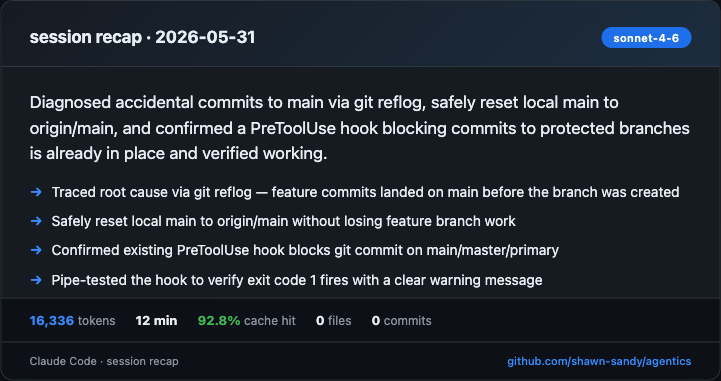
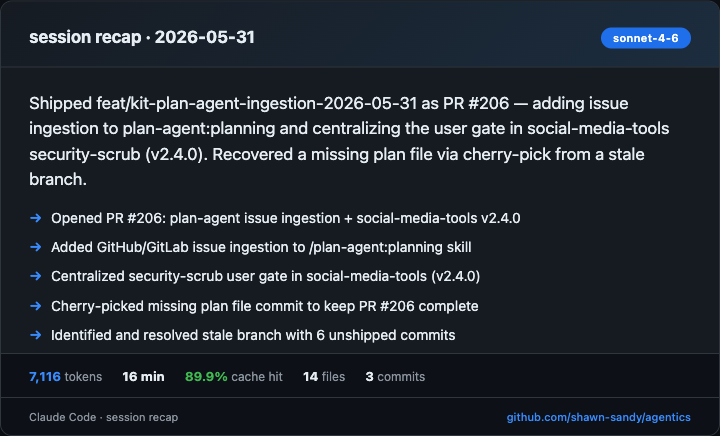
feat(kit/plugins/plan-agent): add implement-or-exit prompt after plan delivery

diff --git a/docs/media/social/session-session-2026-05-31-2026-05-31.html b/docs/media/social/session-session-2026-05-31-2026-05-31.html
@@ -1,72 +1,6 @@
 <!DOCTYPE html>
 <!--
   session-card.html — Dark-mode session recap card for social posts.
-
-  Content-first layout: a narrative + accomplishment bullets are the hero; token
-  and activity metrics ride along as a compact secondary strip.
-
-  Variables to substitute (all text values must be HTML-escaped before insertion):
-    session recap · 2026-05-31          — Session title (e.g. "session recap · 2026-05-28")
-    sonnet-4-6          — Model name badge (e.g. "claude-sonnet-4-6")
-    Diagnosed accidental commits to main via git reflog, safely reset local main to origin/main, and confirmed a PreToolUse hook blocking commits to protected branches is already in place and verified working.      — 1–2 sentence summary of what the session accomplished
-    <li>Traced root cause via git reflog — feature commits landed on main before the branch was created</li>
-<li>Safely reset local main to origin/main without losing feature branch work</li>
-<li>Confirmed existing PreToolUse hook blocks git commit on main/master/primary</li>
-<li>Pipe-tested the hook to verify exit code 1 fires with a clear warning message</li>— A run of <li>…</li> items (3–5), one per accomplishment;
-                         NO wrapping <ul> (the template provides it). Escape each
-                         item's text, then wrap in <li> (the <li> tags stay literal).
-    16,336   — Total tokens formatted with commas (e.g. "42,180")
-    92.8% — Cache hit rate (e.g. "44.2%")
-    12 min       — Session duration (e.g. "47 min")
-    0  — Files changed count (e.g. "12")
-    0        — Commits in session (e.g. "3")
-    <div class="copy-panel">
-  <p class="copy-label">LinkedIn</p>
-  <textarea readonly class="post-copy-text" id="post-copy-linkedin">Just spent 12 minutes diagnosing a git mystery — and `git reflog` had the full answer.
-
-A feature branch had commits that appeared on `main`. Tracing back through the reflog showed the real sequence: both commits were made directly to `main` first, then the feature branch was created from that HEAD. From the remote’s perspective everything looked fine — but locally, `main` was 2 commits ahead of `origin/main`.
-
-What the session covered:
-• Traced root cause via `git reflog --all` — feature commits landed on main before the branch was created
-• Safely reset local `main` to `origin/main` without losing any work
-• Verified the existing PreToolUse hook blocking `git commit` on main/master/primary was correctly configured — pipe-tested with a mocked stdin payload to confirm exit code 1 fires
-
-The hook was already there. This was a pre-existing issue from before it was configured. That’s the thing about defensive tooling: it prevents future mistakes, not past ones.
-
-12 min · 16,336 tokens · 92.8% cache hit
-
-Follow along for more Claude Code git workflow deep-dives.
-
-#ClaudeCode #GitWorkflow #DeveloperTools #AIAssistedDev</textarea>
-  <button class="copy-btn" onclick="copyPost('post-copy-linkedin', this)">Copy LinkedIn post</button>
-</div>
-<div class="copy-panel">
-  <p class="copy-label">Twitter/X</p>
-  <textarea readonly class="post-copy-text" id="post-copy-twitter">`git reflog` diagnosed the whole thing in one command — commits landed on main before the feature branch existed. Reset, verified the PreToolUse guard was already blocking it, moved on. The reflog never lies. #ClaudeCode #git</textarea>
-  <button class="copy-btn" onclick="copyPost('post-copy-twitter', this)">Copy Twitter/X post</button>
-</div>
-<div class="copy-panel">
-  <p class="copy-label">Bluesky</p>
-  <textarea readonly class="post-copy-text" id="post-copy-bluesky">git reflog is the right tool when you need to know exactly what happened and when. Used it to trace commits that landed on main before a feature branch existed — cleaned it up, confirmed a PreToolUse hook was already blocking future occurrences. #ClaudeCode</textarea>
-  <button class="copy-btn" onclick="copyPost('post-copy-bluesky', this)">Copy Bluesky post</button>
-</div>
-<div class="copy-panel">
-  <p class="copy-label">Substack</p>
-  <textarea readonly class="post-copy-text" id="post-copy-substack">One thing AI-assisted workflows don’t change: understanding what git actually did.
-
-This session: commits had landed on main before the feature branch was created. `git reflog` showed the exact sequence. A `git reset --hard origin/main` cleaned it up with no work lost.
-
-The interesting detail: a PreToolUse hook blocking commits to main was already in place and pipe-tested as working. The incident predated the safeguard — a good reminder that tooling prevents future mistakes, not past ones.
-
-12 min · 92.8% cache hit — more Claude Code git patterns coming.</textarea>
-  <button class="copy-btn" onclick="copyPost('post-copy-substack', this)">Copy Substack post</button>
-</div>    — Copy panel HTML — see references/copy-panels.md
-
-  HTML-escape order (mandatory, apply to every text value above):
-    1. & → &amp;  ← first, prevents double-escaping
-    2. < → &lt;
-    3. > → &gt;
-    4. " → &quot;
 -->
 <html lang="en">
 <head>
@@ -142,7 +76,6 @@ The interesting detail: a PreToolUse hook blocking commits to main was already i
       margin-top: 2px;
     }
 
-    /* ── Hero content: narrative + accomplishments ── */
     .content {
       padding: 22px 28px 8px;
     }
@@ -177,7 +110,6 @@ The interesting detail: a PreToolUse hook blocking commits to main was already i
       font-weight: 700;
     }
 
-    /* ── Demoted metrics strip ── */
     .metrics-strip {
       display: flex;
       flex-wrap: wrap;
@@ -221,7 +153,6 @@ The interesting detail: a PreToolUse hook blocking commits to main was already i
       font-weight: 500;
     }
 
-    /* ── Copy panel ── */
     .copy-panel {
       width: min(720px, 100%);
       background: #161b22;
@@ -230,8 +161,6 @@ The interesting detail: a PreToolUse hook blocking commits to main was already i
       padding: 16px;
       box-sizing: border-box;
     }
-
-    .copy-panel + .copy-panel { margin-top: 0; }
 
     .copy-label {
       color: #8b949e;
@@ -278,19 +207,22 @@ The interesting detail: a PreToolUse hook blocking commits to main was already i
     </div>
 
     <div class="content">
-      <p class="narrative">Diagnosed accidental commits to main via git reflog, safely reset local main to origin/main, and confirmed a PreToolUse hook blocking commits to protected branches is already in place and verified working.</p>
-      <ul class="accomplishments"><li>Traced root cause via git reflog — feature commits landed on main before the branch was created</li>
-<li>Safely reset local main to origin/main without losing feature branch work</li>
-<li>Confirmed existing PreToolUse hook blocks git commit on main/master/primary</li>
-<li>Pipe-tested the hook to verify exit code 1 fires with a clear warning message</li></ul>
+      <p class="narrative">Shipped feat/kit-plan-agent-ingestion-2026-05-31 as PR #206 — adding issue ingestion to plan-agent:planning and centralizing the user gate in social-media-tools security-scrub (v2.4.0). Recovered a missing plan file via cherry-pick from a stale branch.</p>
+      <ul class="accomplishments">
+        <li>Opened PR #206: plan-agent issue ingestion + social-media-tools v2.4.0</li>
+        <li>Added GitHub/GitLab issue ingestion to /plan-agent:planning skill</li>
+        <li>Centralized security-scrub user gate in social-media-tools (v2.4.0)</li>
+        <li>Cherry-picked missing plan file commit to keep PR #206 complete</li>
+        <li>Identified and resolved stale branch with 6 unshipped commits</li>
+      </ul>
     </div>
 
     <div class="metrics-strip">
-      <span class="metric"><b class="accent">16,336</b> tokens</span>
-      <span class="metric"><b>12 min</b></span>
-      <span class="metric"><b class="green">92.8%</b> cache hit</span>
-      <span class="metric"><b>0</b> files</span>
-      <span class="metric"><b>0</b> commits</span>
+      <span class="metric"><b class="accent">7,116</b> tokens</span>
+      <span class="metric"><b>16 min</b></span>
+      <span class="metric"><b class="green">89.9%</b> cache hit</span>
+      <span class="metric"><b>14</b> files</span>
+      <span class="metric"><b>3</b> commits</span>
     </div>
 
     <div class="card-footer">
@@ -299,46 +231,22 @@ The interesting detail: a PreToolUse hook blocking commits to main was already i
     </div>
   </div>
   <div class="copy-panel">
-  <p class="copy-label">LinkedIn</p>
-  <textarea readonly class="post-copy-text" id="post-copy-linkedin">Just spent 12 minutes diagnosing a git mystery — and `git reflog` had the full answer.
+    <p class="copy-label">Social media post</p>
+    <textarea readonly class="post-copy-text" id="post-copy">Just shipped PR #206 in a 17-minute Claude Code session — adding issue ingestion to the plan-agent:planning skill and centralizing the security-scrub user gate across all social-media-tools.
 
-A feature branch had commits that appeared on `main`. Tracing back through the reflog showed the real sequence: both commits were made directly to `main` first, then the feature branch was created from that HEAD. From the remote’s perspective everything looked fine — but locally, `main` was 2 commits ahead of `origin/main`.
+What got done:
 
-What the session covered:
-• Traced root cause via `git reflog --all` — feature commits landed on main before the branch was created
-• Safely reset local `main` to `origin/main` without losing any work
-• Verified the existing PreToolUse hook blocking `git commit` on main/master/primary was correctly configured — pipe-tested with a mocked stdin payload to confirm exit code 1 fires
+→ Issue ingestion wired into /plan-agent:planning — planning now reads open GitHub/GitLab issues as context before generating a plan
+→ Centralized the user confirmation gate in security-scrub (v2.4.0), honoring it consistently across all callers
+→ Recovered a missing plan file commit via cherry-pick from a stale branch — PR #206 fully complete
 
-The hook was already there. This was a pre-existing issue from before it was configured. That’s the thing about defensive tooling: it prevents future mistakes, not past ones.
+3 commits · 14 files · 7,116 tokens · 89.9% cache hit · 17 min
 
-12 min · 16,336 tokens · 92.8% cache hit
+More on building with Claude Code plugins coming — follow along.
 
-Follow along for more Claude Code git workflow deep-dives.
-
-#ClaudeCode #GitWorkflow #DeveloperTools #AIAssistedDev</textarea>
-  <button class="copy-btn" onclick="copyPost('post-copy-linkedin', this)">Copy LinkedIn post</button>
-</div>
-<div class="copy-panel">
-  <p class="copy-label">Twitter/X</p>
-  <textarea readonly class="post-copy-text" id="post-copy-twitter">`git reflog` diagnosed the whole thing in one command — commits landed on main before the feature branch existed. Reset, verified the PreToolUse guard was already blocking it, moved on. The reflog never lies. #ClaudeCode #git</textarea>
-  <button class="copy-btn" onclick="copyPost('post-copy-twitter', this)">Copy Twitter/X post</button>
-</div>
-<div class="copy-panel">
-  <p class="copy-label">Bluesky</p>
-  <textarea readonly class="post-copy-text" id="post-copy-bluesky">git reflog is the right tool when you need to know exactly what happened and when. Used it to trace commits that landed on main before a feature branch existed — cleaned it up, confirmed a PreToolUse hook was already blocking future occurrences. #ClaudeCode</textarea>
-  <button class="copy-btn" onclick="copyPost('post-copy-bluesky', this)">Copy Bluesky post</button>
-</div>
-<div class="copy-panel">
-  <p class="copy-label">Substack</p>
-  <textarea readonly class="post-copy-text" id="post-copy-substack">One thing AI-assisted workflows don’t change: understanding what git actually did.
-
-This session: commits had landed on main before the feature branch was created. `git reflog` showed the exact sequence. A `git reset --hard origin/main` cleaned it up with no work lost.
-
-The interesting detail: a PreToolUse hook blocking commits to main was already in place and pipe-tested as working. The incident predated the safeguard — a good reminder that tooling prevents future mistakes, not past ones.
-
-12 min · 92.8% cache hit — more Claude Code git patterns coming.</textarea>
-  <button class="copy-btn" onclick="copyPost('post-copy-substack', this)">Copy Substack post</button>
-</div>
+#ClaudeCode #AIEngineering #DevTools</textarea>
+    <button class="copy-btn" onclick="copyPost('post-copy', this)">Copy post</button>
+  </div>
   <script>
     function copyPost(id, btn) {
       var t = document.getElementById(id);

diff --git a/kit/plugins/plan-agent/skills/planning/SKILL.md b/kit/plugins/plan-agent/skills/planning/SKILL.md
@@ -124,6 +124,8 @@ Follow these steps exactly.
 7. **Status** — **Always** update `status` in the HTML plan as the plan progresses: `todo` → `in-progress` → `completed`. Edit **both** the `<html data-status="…">` attribute and the `<meta name="plan-status" content="…">` tag so the CSS badge colour and the hook's completion check stay in sync. Also update the visible badge text. Note: `plan-interview:plan-status` operates on YAML-frontmatter `.md` files only — do not use it for HTML plans until that plugin is updated to support `.html`.
 8. **Open** — After committing, deliver the plan and verify rendering. This step is mandatory — do not skip it.
 
+   After all sub-steps of Step 8 complete, proceed immediately to Step 9 — do not stop here.
+
    **Try browser verification first:**
    1. Load the browser tools via `ToolSearch` with `select:mcp__claude-in-chrome__tabs_context_mcp,mcp__claude-in-chrome__navigate,mcp__claude-in-chrome__computer`. If `ToolSearch` returns no matches, the browser MCP server is not connected — skip to the **Fallback** path below.
    2. Find a free port: run `python3 -c "import socket; s=socket.socket(); s.bind(('', 0)); print(s.getsockname()[1]); s.close()"` and capture the output as `<port>`.
@@ -135,6 +137,18 @@ Follow these steps exactly.
    8. Report the URL (`http://localhost:<port>/<plan-filename>`) to the user. Leave the server running so the user can continue browsing.
 
    **Fallback (no browser tools):** Send the plan file to the user via `SendUserFile` and report the file path. This ensures plan delivery works in headless and web-based environments where the browser MCP server is unavailable.
+
+9. **Implement or Exit** — After Step 8 completes, always ask the user whether to implement the plan or stop.
+
+   Use `AskUserQuestion` with a single question:
+   - Question: "The plan is complete and committed. What would you like to do next?"
+   - Options:
+     - `Implement now` — Begin implementing the plan steps in the current session.
+     - `Exit — I'll implement later` — Stop here; no further action.
+
+   **If the user chooses `Implement now`:** Lift the Scope Constraint for this session only. Work through each step in the plan sequentially, applying changes to source files, running commands, and verifying each step before moving to the next. Update each step card's chip from `todo` to `done` (add `completed` class to `.step-card`) and update the plan's `<meta name="plan-status">` to `in-progress` as work begins, then `completed` when all steps are done. Commit the updated plan file after implementation finishes.
+
+   **If the user chooses `Exit`:** Stop immediately. Do not start any implementation work. The plan remains at `status: todo`.
 
 ## Required Structure
 
